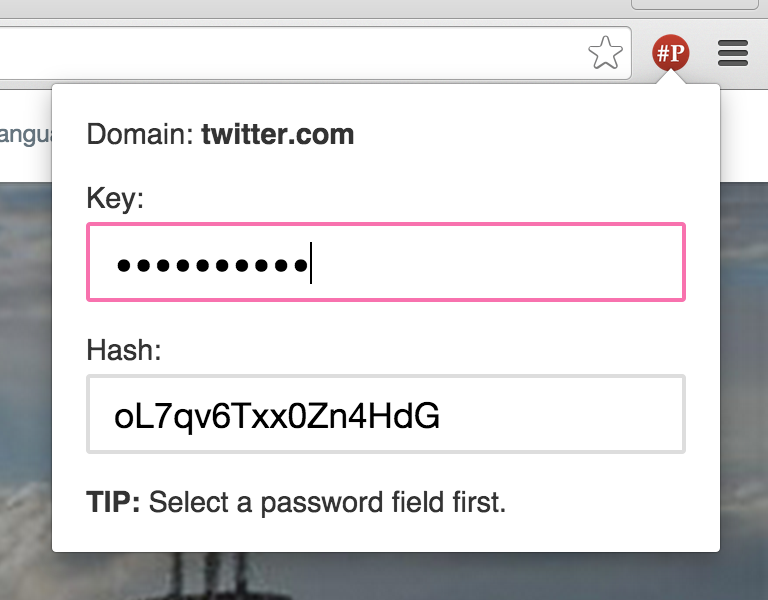
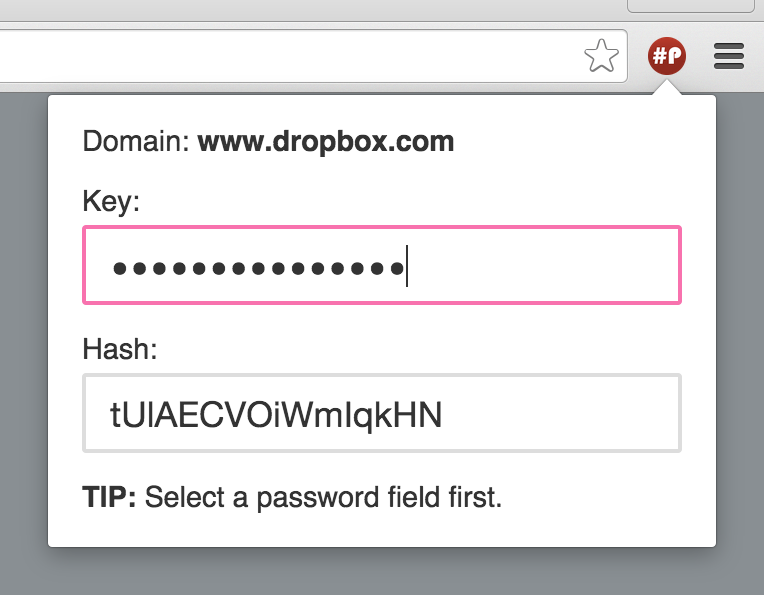
working around a bug in Chrome where extension popups are sized incorrectly

Changed region(s): [[0.0, 0.0, 1.0, 1.0], [0.0, 0.9681, 0.0301, 1.0], [0.0, 0.484, 0.0301, 0.5143]]

diff --git a/popup.js b/popup.js
@@ -1,18 +1,21 @@
-"use strict";
+'use strict';
+
+// Make sure we are in strict mode.
+(function() {
+  var strictMode = false;
+  try {
+    NaN = NaN;
+  } catch (err) {
+    strictMode = true;
+  }
+  if (!strictMode) {
+    throw 'Unable to activate strict mode.';
+  }
+})();
 
 // The hashing difficulty.
 // 2 ^ difficulty rounds of SHA-256 will be computed.
 var difficulty = 16;
-
-// This fixes a bug in Chrome where the popup is not sized correctly.
-function fixSize() {
-  setInterval(function() {
-    var width = $('#container').width();
-    var height = $('#container').height();
-    $('#container').width(width);
-    $('#container').height(height);
-  }, 100);
-}
 
 $(function() {
   // Get the current tab.
@@ -20,13 +23,17 @@ $(function() {
       active: true,
       currentWindow: true
     }, function(tabs) {
+      var showError = function(err) {
+        $('#domain').text('N/A');
+        $('#key').prop('disabled', true);
+        $('#hash').prop('disabled', true);
+        $('p:not(#message)').addClass('disabled');
+        $('#message').addClass('error').text(err);
+      };
+
       // Make sure we got the tab.
       if (tabs.length !== 1) {
-        $('#controls').addClass('hidden');
-        $('#error').removeClass('hidden').text('Unable to determine active tab.');
-        $('#container').removeClass('hidden');
-        fixSize();
-        return;
+        return showError('Unable to determine active tab.');
       }
 
       // Get the domain.
@@ -36,19 +43,11 @@ $(function() {
         domain = matches[1].toLowerCase();
       } else {
         // Example cause: files served over the file:// protocol.
-        $('#controls').addClass('hidden');
-        $('#error').removeClass('hidden').text('Unable to determine the domain.');
-        $('#container').removeClass('hidden');
-        fixSize();
-        return;
+        return showError('Unable to determine the domain.');
       }
       if (/^http(?:s?):\/\/chrome\.google\.com\/webstore.*/.test(tabs[0].url)) {
         // Technical reason: Chrome prevents content scripts from running in the app gallery.
-        $('#controls').addClass('hidden');
-        $('#error').removeClass('hidden').text('Hashpass cannot run in the Chrome Web Store.');
-        $('#container').removeClass('hidden');
-        fixSize();
-        return;
+        return showError('Try Hashpass on another domain.');
       }
       $('#domain').text(domain);
 
@@ -63,15 +62,11 @@ $(function() {
             // Different user interfaces depending on whether a password field is in focus.
             var passwordMode = (response.type === 'password');
             if (passwordMode) {
-              $('.password-mode-off').addClass('hidden');
-              $('.password-mode-on').removeClass('hidden');
+              $('#message').html('Press <strong>ENTER</strong> to fill in the password field.');
+              $('#hash').val('[hidden]').addClass('disabled');
             } else {
-              $('.password-mode-off').removeClass('hidden');
-              $('.password-mode-on').addClass('hidden');
+              $('#message').html('<strong>TIP:</strong> Select a password field first.');
             }
-            $('#error').addClass('hidden');
-            $('#container').removeClass('hidden');
-            fixSize();
 
             // Called whenever the key changes.
             var update = function() {
@@ -85,7 +80,9 @@ $(function() {
               }
 
               var hash = sjcl.codec.base64.fromBits(bits).slice(0, 16);
-              $('#hash').val(hash);
+              if (!passwordMode) {
+                $('#hash').val(hash);
+              }
               return hash;
             };
 
@@ -99,7 +96,7 @@ $(function() {
                 update();
                 timeout = null;
               }), 100);
-            }
+            };
 
             if (passwordMode) {
               // Listen for the Enter key.

diff --git a/popup.html b/popup.html
@@ -11,29 +11,10 @@
       body {
         margin: 0;
         padding: 0;
+        width: 332px;
         font-family: sans-serif;
         font-size: 0.9em;
         color: #333;
-      }
-
-      #container {
-        width: 332px;
-        zoom: 1;
-      }
-
-      #container:before {
-        content: ' ';
-        display: table;
-        font-size: 0;
-        visibility: hidden;
-      }
-
-      #container:after {
-        content: ' ';
-        display: table;
-        font-size: 0;
-        visibility: hidden;
-        clear: both;
       }
 
       input {
@@ -44,9 +25,11 @@
         border: 2px solid #ddd;
         border-radius: 2px;
         padding: 8px 12px;
+        margin: 16px;
         outline-style: none;
         line-height: 20px;
         font-size: 1.2em;
+        color: inherit;
       }
 
       input:focus {
@@ -65,12 +48,16 @@
         margin-bottom: 4px;
       }
 
-      #error {
-        color: #c00;
+      .disabled {
+        color: #ccc;
       }
 
-      .hidden {
-        display: none;
+      input.disabled {
+        font-style: italic;
+      }
+
+      .error {
+        color: #c00;
       }
     </style>
     <script type="text/javascript" src="jquery.js"></script>
@@ -78,17 +65,11 @@
     <script type="text/javascript" src="popup.js"></script>
   </head>
   <body>
-    <div id="container" class="hidden">
-      <p id="error"></p>
-      <div id="controls">
-        <p>Domain: <strong><span id="domain"></span></strong></p>
-        <p class="small-bottom-margin">Key:</p>
-        <input id="key" class="small-top-margin" type="password" />
-        <p class="small-bottom-margin password-mode-off">Hash:</p>
-        <input id="hash" class="small-top-margin password-mode-off" type="text" readonly="true" />
-        <p class="fill-instruction password-mode-on">Press <strong>ENTER</strong> to fill in the password field.</p>
-        <p class="pre-instruction password-mode-off"><strong>TIP:</strong> Select a password field first.</p>
-      </div>
-    </div>
+    <p>Domain: <strong><span id="domain"></span></strong></p>
+    <p class="small-bottom-margin">Key:</p>
+    <input id="key" class="small-top-margin" type="password" />
+    <p class="small-bottom-margin">Hash:</p>
+    <input id="hash" class="small-top-margin" type="text" readonly="true" />
+    <p id="message">&nbsp;</p>
   </body>
 </html>

diff --git a/content_script.js b/content_script.js
@@ -1,16 +1,43 @@
-"use strict";
+'use strict';
+
+// Make sure we are in strict mode.
+(function() {
+  var strictMode = false;
+  try {
+    NaN = NaN;
+  } catch (err) {
+    strictMode = true;
+  }
+  if (!strictMode) {
+    throw 'Unable to activate strict mode.';
+  }
+})();
 
 // Register the message handler.
 chrome.runtime.onMessage.addListener(
   function(request, sender, sendResponse) {
+    // Trims the attribute and converts it to lowercase.
+    var normalizeAttr = function(attr) {
+      return attr.replace(/^\s+|\s+$/g, '').toLowerCase();
+    };
+
+    // Returns whether elem is an input of type "password".
+    var isPasswordInput = function(elem) {
+      if (elem) {
+        if (normalizeAttr(elem.tagName) === normalizeAttr('input')) {
+          if (normalizeAttr(elem.type) === normalizeAttr('password')) {
+            return true;
+          }
+        }
+      }
+      return false;
+    };
+
     // Check if a password field is selected.
     if (request.type === 'check') {
-      var activeElement = document.activeElement;
-      if (activeElement.tagName.toLowerCase() === 'input') {
-        if (activeElement.type.toLowerCase() === 'password') {
-          sendResponse({ type: 'password' });
-          return;
-        }
+      if (isPasswordInput(document.activeElement)) {
+        sendResponse({ type: 'password' });
+        return;
       }
       sendResponse({ type: 'not-password' });
       return;
@@ -18,15 +45,12 @@ chrome.runtime.onMessage.addListener(
 
     // Fill in the selected password field.
     if (request.type === 'fill') {
-      var activeElement = document.activeElement;
-      if (activeElement.tagName.toLowerCase() === 'input') {
-        if (activeElement.type.toLowerCase() === 'password') {
-          activeElement.value = request.hash;
-          sendResponse({ type: 'close' });
-          return;
-        }
+      if (isPasswordInput(document.activeElement)) {
+        document.activeElement.value = request.hash;
+        sendResponse({ type: 'close' });
+        return;
       }
-      sendResponse({ type: 'none' });
+      sendResponse({ type: 'fail' });
       return;
     }
   }
